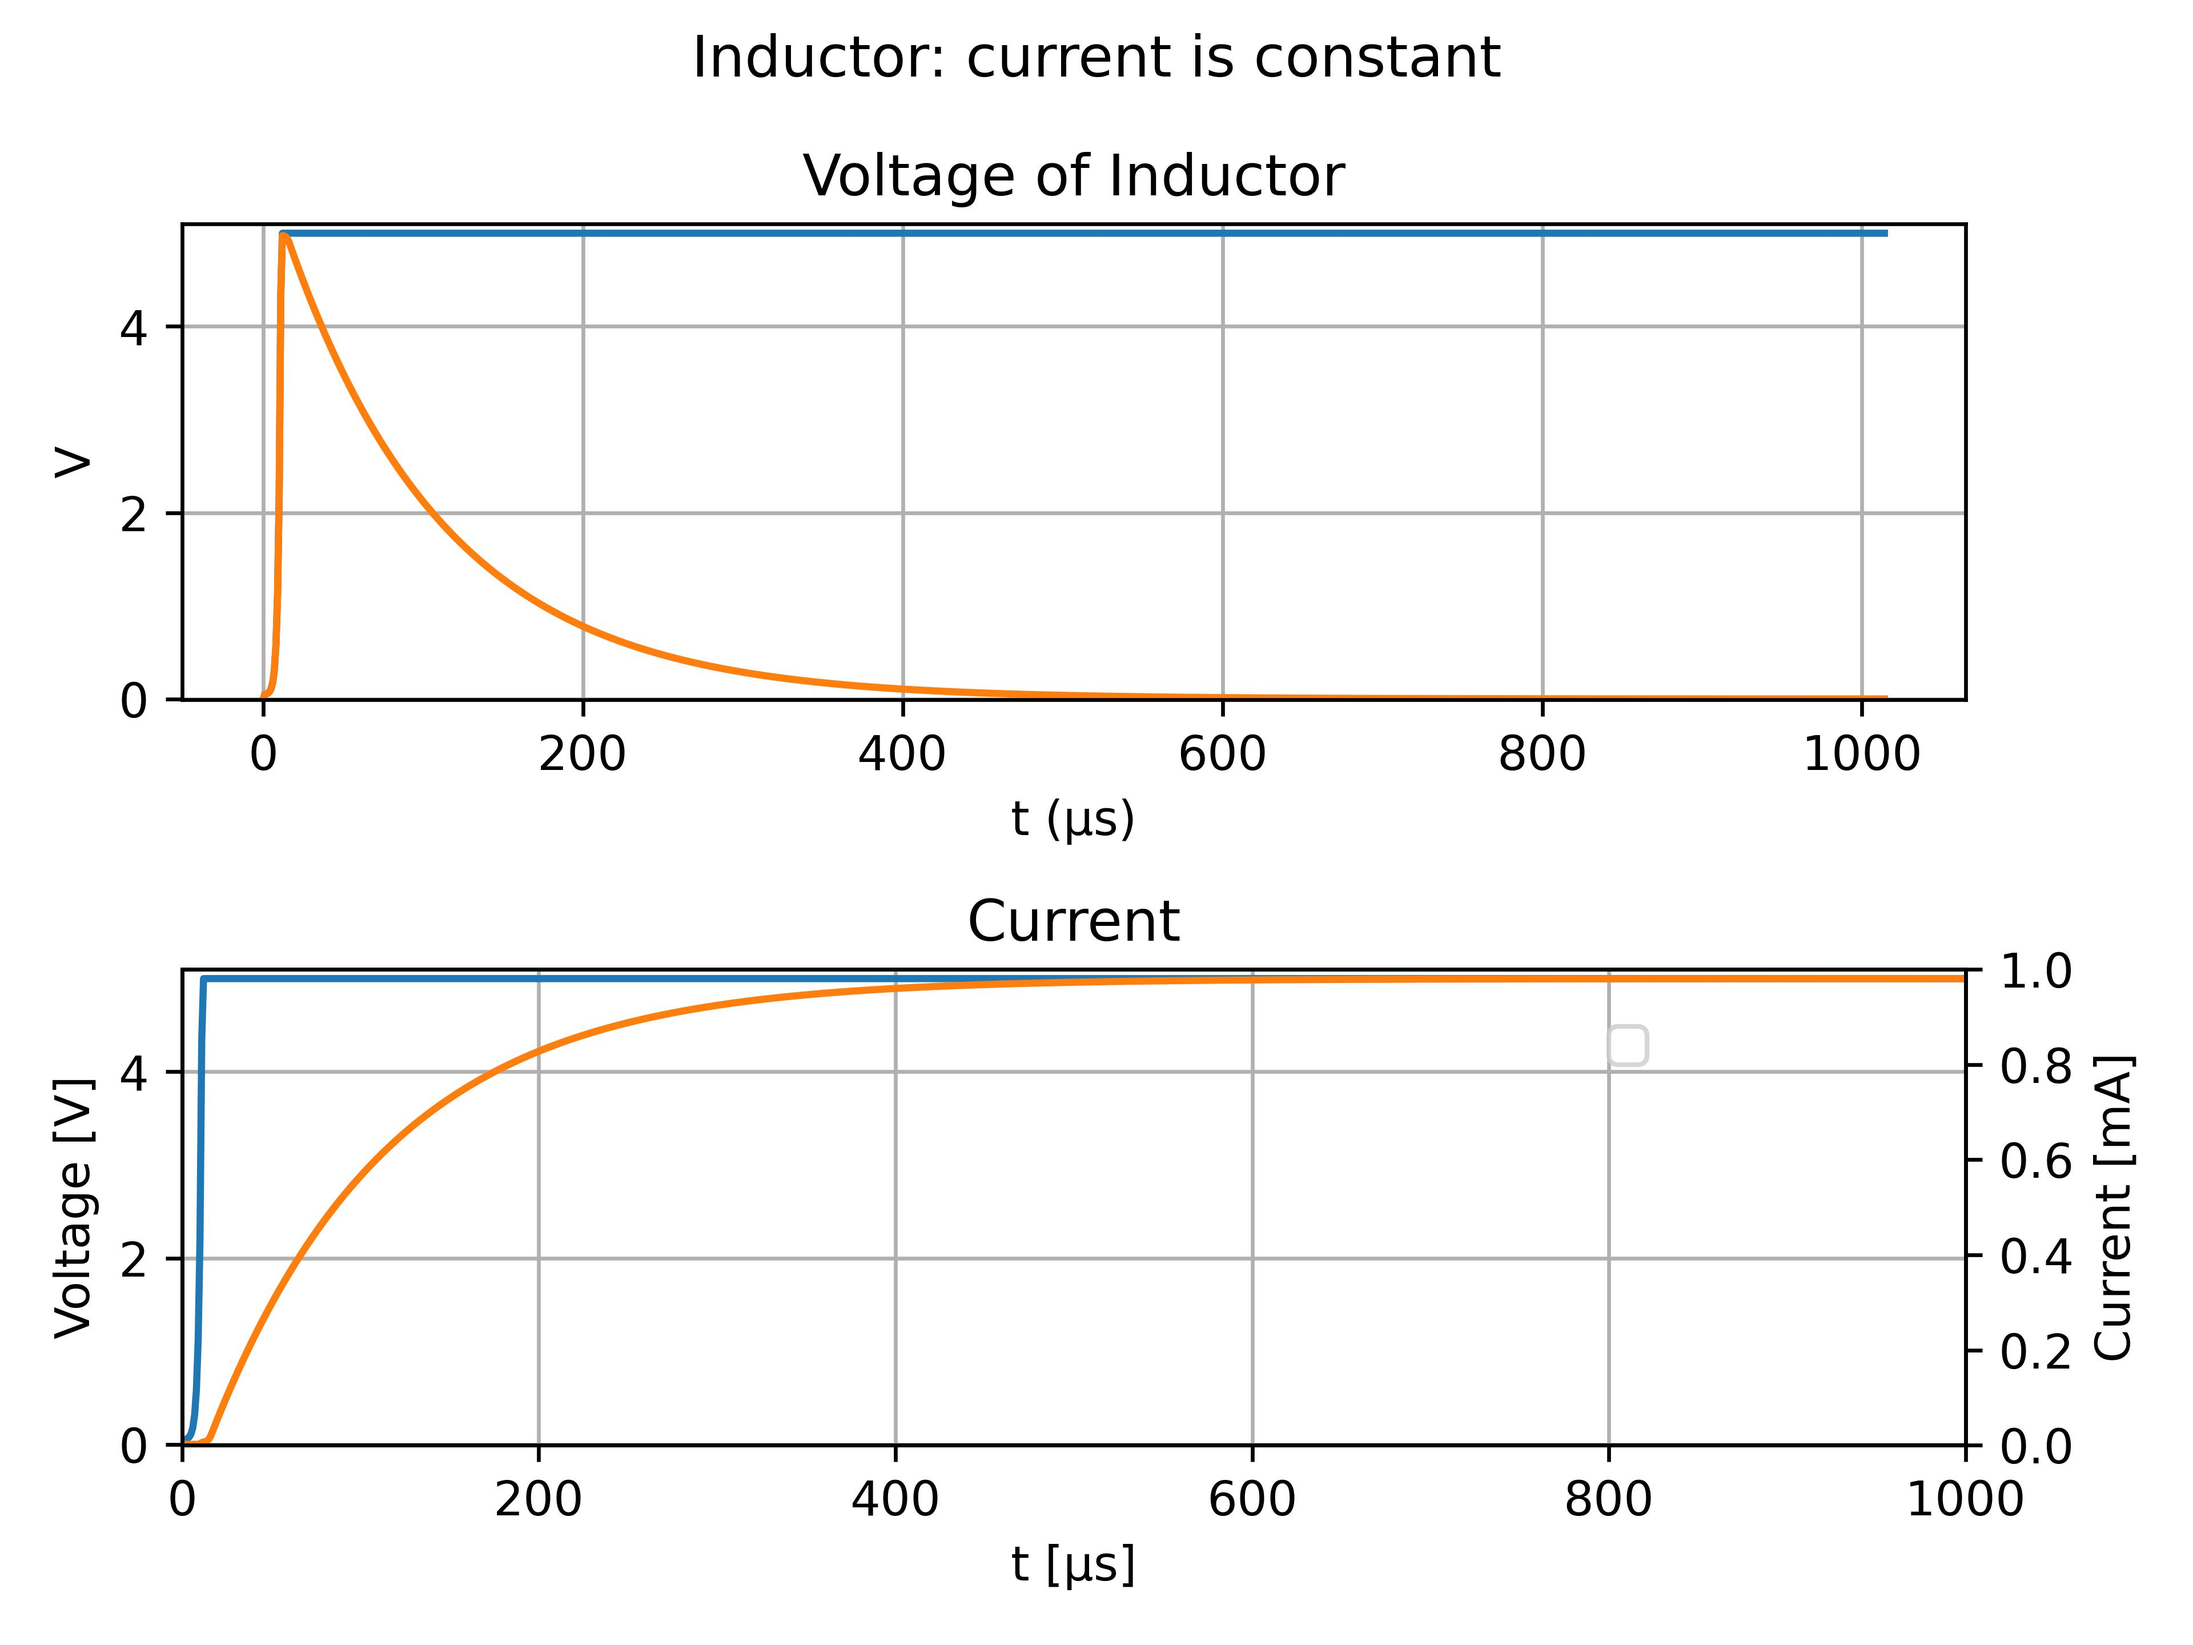
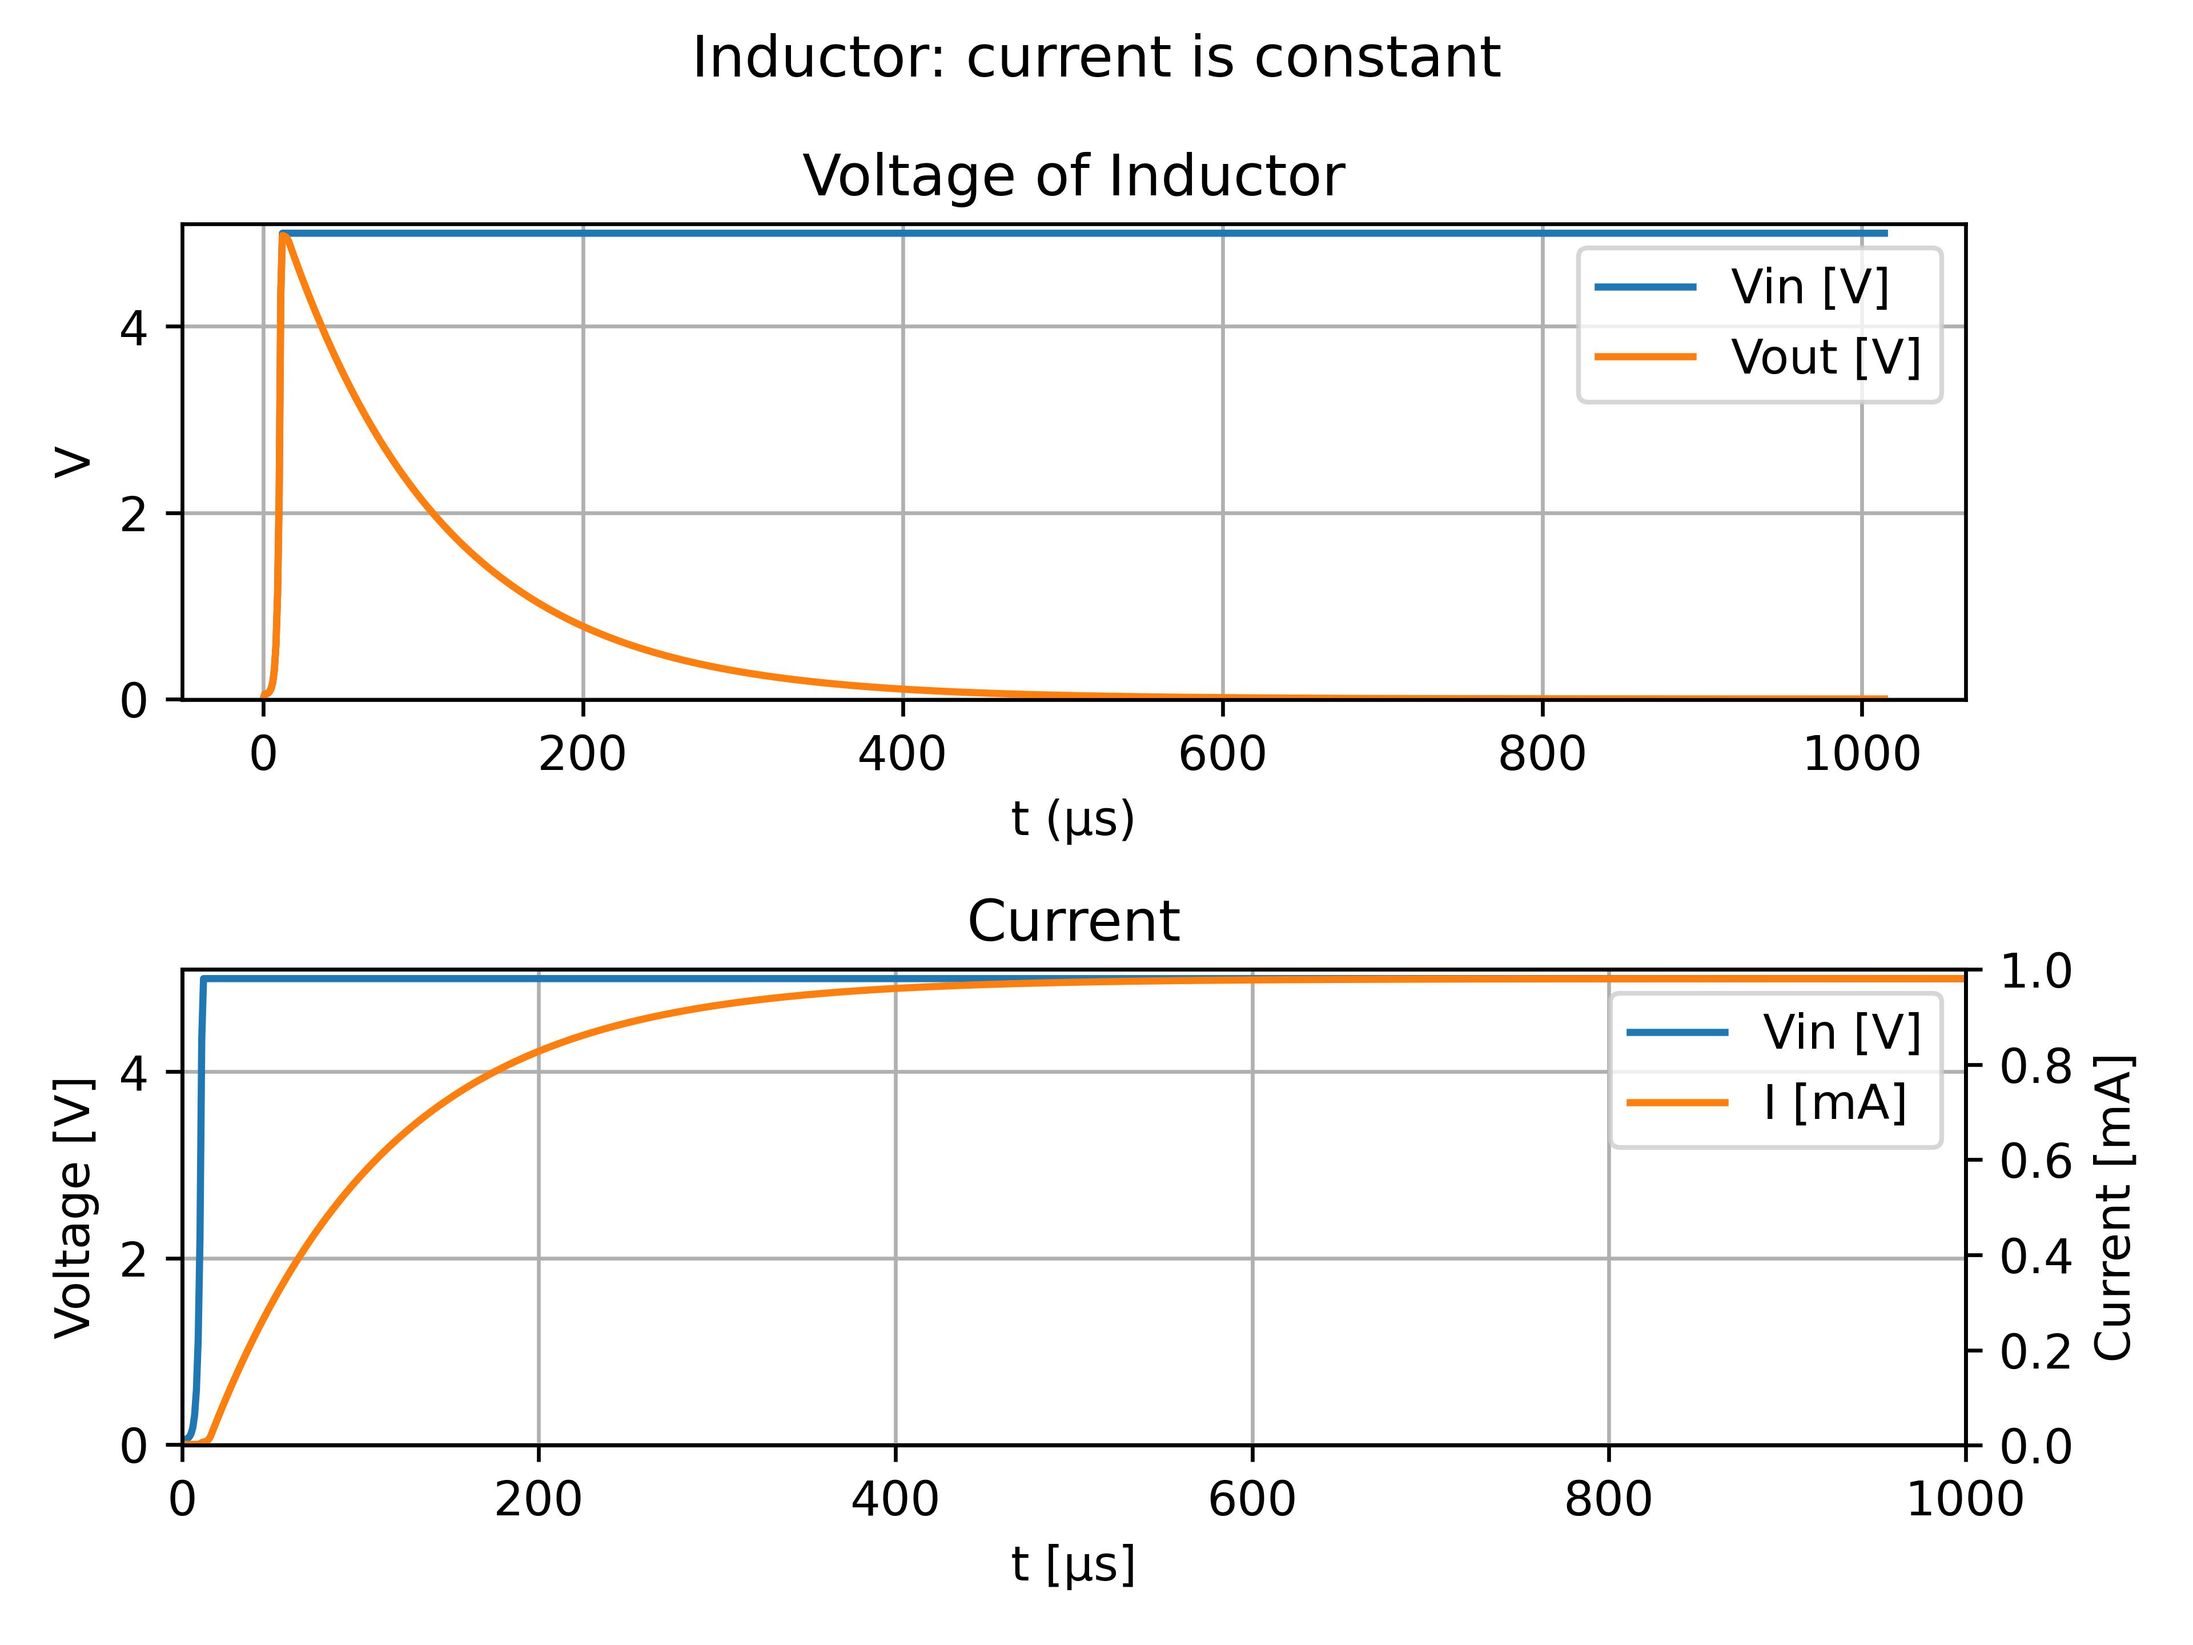
updated rc and rl figures

Changed region(s): [[0.7188, 0.1562, 0.875, 0.25], [0.7188, 0.5938, 0.875, 0.6875]]

diff --git a/main.py b/main.py
@@ -104,8 +104,10 @@ def drawVoltageDivider():
 
 def drawRC():
     with schemdraw.Drawing() as d:
+        d += elm.Dot().label("in")
         d += elm.Switch()
         d += elm.Resistor().right().label('1kΩ')
+        d += elm.Dot().label("out")
         d += elm.Capacitor().down().label('1μF')
         d += elm.Line().left()
         d += elm.Line().left()
@@ -113,8 +115,10 @@ def drawRC():
         d.save("figures/RCDrawingOpen.jpg")
 
     with schemdraw.Drawing() as d:
+        d += elm.Dot().label("in")
         d += elm.Switch(action="close")
         d += elm.Resistor().right().label('1kΩ')
+        d += elm.Dot().label("out")
         d += elm.Capacitor().down().label('1μF')
         d += elm.Line().left()
         d += elm.Line().left()
@@ -125,7 +129,6 @@ def drawRL():
     with schemdraw.Drawing() as d:
         d += elm.Dot().label("in")
         d += elm.Switch()
-        d += elm.Dot().label("resistor")
         d += elm.Resistor().right().label('1kΩ')
         d += elm.Dot().label("out")
         d += elm.Inductor().down().label('1H')
@@ -137,7 +140,6 @@ def drawRL():
     with schemdraw.Drawing() as d:
         d += elm.Dot().label("in")
         d += elm.Switch(action="close")
-        d += elm.Dot().label("resistor")
         d += elm.Resistor().right().label('1kΩ')
         d += elm.Dot().label("out")
         d += elm.Inductor().down().label('1H')
@@ -284,6 +286,7 @@ def RLCircuit():
     plots[0].set_ylim(-0.01, 5.1)
     plots[0].set_xlabel('t (μs)')
     plots[0].set_ylabel('V')
+    plots[0].legend(('Vin [V]', 'Vout [V]'), loc="best")
 
     ax1 = plots[1].twinx()
     plots[1].set_title("Current")
@@ -295,7 +298,7 @@ def RLCircuit():
     plots[1].set_xlabel('t [μs]')
     plots[1].set_ylabel('Voltage [V]')
     ax1.set_ylabel('Current [mA]')
-    plt.legend(('Vin [V]', 'Vout [V]', 'I'), loc=(.8, .8))
+    plots[1].legend(('Vin [V]', 'I [mA]'), loc="best")
 
     plt.tight_layout()
     plt.savefig("figures/RLCircuit.jpg", dpi=600)
